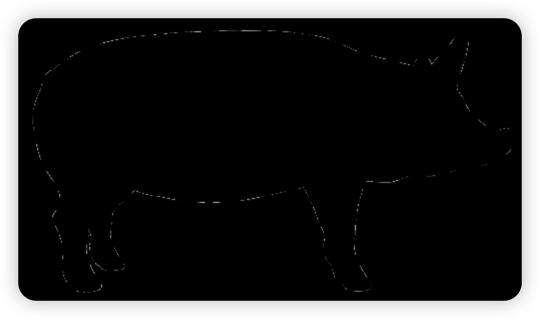
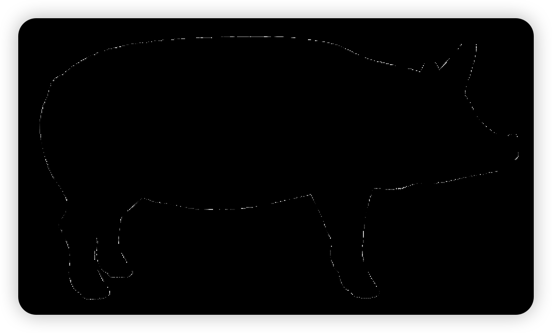
revise

diff --git a/src/LinkList.h b/src/LinkList.h
@@ -7,7 +7,7 @@
 #include "PODPool.h"
 
 template <class T>
-struct  LinkNode
+struct LinkNode
 {
     T data;
     LinkNode<T>* next;
@@ -20,23 +20,26 @@ class LinkList
 public:
     LinkNode<T>* head;
     LinkNode<T>* tail;
-    int count=0;
+    int count = 0;
+
     LinkList()
     {
         head = PODPool<LinkNode<T>>::POOL.create();
     }
+
     ~LinkList()
     {
-        while (head!= nullptr)
+        while (head != nullptr)
         {
             LinkNode<T>* temp = head->next;
             head->next = nullptr;
-            head->data=nullptr;
+            head->data = nullptr;
             head->prev = nullptr;
             PODPool<LinkNode<T>>::POOL.recycle(head);
             head = temp;
         }
     }
+
     LinkNode<T>* add_first(T data)
     {
         LinkNode<T>* node = PODPool<LinkNode<T>>::POOL.create();
@@ -53,6 +56,7 @@ public:
         count++;
         return node;
     }
+
     LinkNode<T>* add_last(T data)
     {
         LinkNode<T>* node = PODPool<LinkNode<T>>::POOL.create();
@@ -63,6 +67,7 @@ public:
         count++;
         return node;
     }
+
     void remove(LinkNode<T>* node)
     {
         if (tail == node)
@@ -82,7 +87,7 @@ public:
             node->next->prev = node->prev;
         }
         node->next = nullptr;
-        node->data=nullptr;
+        node->data = nullptr;
         node->prev = nullptr;
         PODPool<LinkNode<T>>::POOL.recycle(node);
         count--;
@@ -90,11 +95,11 @@ public:
 
     void clear()
     {
-        while (head!= nullptr)
+        while (head != nullptr)
         {
             LinkNode<T>* temp = head->next;
             head->next = nullptr;
-            head->data=nullptr;
+            head->data = nullptr;
             head->prev = nullptr;
             PODPool<LinkNode<T>>::POOL.recycle(head);
             head = temp;

diff --git a/src/main.cpp b/src/main.cpp
@@ -87,7 +87,7 @@ int main()
     ctx->enable_ray_cast = false;
     ctx->build_bvh = false;
     ctx->msaa_factor = 4;
-    ctx->enable_edge = false;
+    ctx->enable_edge = true;
     ctx->root->add_child(create_obj_model_node("pig/16433_Pig.obj"));
     // ctx->root->add_child(simple_tri());
     ctx->main_loop();

diff --git a/src/Context.h b/src/Context.h
@@ -63,9 +63,15 @@ public:
 };
 extern Context* current_context;
 
-void set_current_ctx(Context* ctx);
+inline void set_current_ctx(Context* ctx)
+{
+    current_context = ctx;
+}
 
-Context* get_current_ctx();
+inline Context* get_current_ctx()
+{
+    return current_context;
+}
 
 
 #endif //CONTEXT_H

diff --git a/src/Context.cpp b/src/Context.cpp
@@ -187,12 +187,3 @@ void Context::unregister_after_scene_render_func(void(* func)(Context* ctx, Colo
     }
 }
 
-void set_current_ctx(Context* ctx)
-{
-    current_context = ctx;
-}
-
-Context* get_current_ctx()
-{
-    return current_context;
-}
